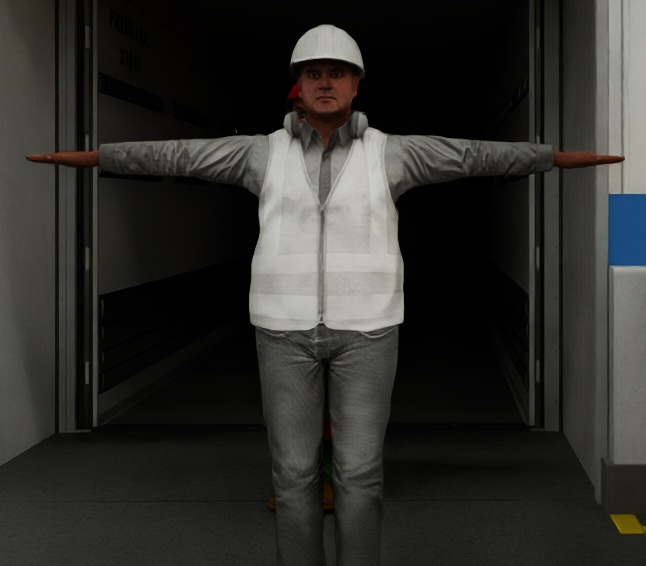
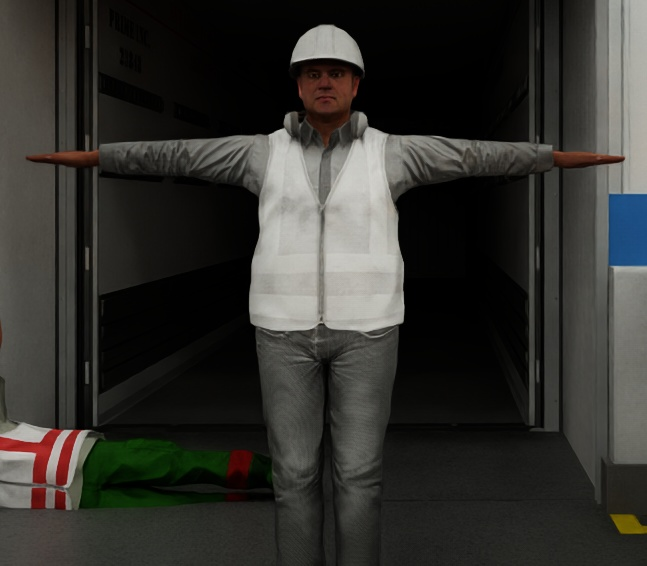
Confirm fall detection working (aspect ratio 1.77 triggered alert), add debug capture folder, add NOTES.md

diff --git a/unified_tracking.py b/unified_tracking.py
@@ -18,6 +18,7 @@ ID_COUNTER_FILE = PROJECT_DIR + r"\next_id.txt"
 CAMERA_ZONES_FILE = PROJECT_DIR + r"\camera_zones.json"
 AUTHORIZED_IDS_FILE = PROJECT_DIR + r"\authorized_ids.json"
 EVENT_LOG_FILE = PROJECT_DIR + r"\event_log.json"
+DEBUG_DIR = PROJECT_DIR + r"\debug_captures"
 
 CHECKPOINT_NAME = "EntryCamera"
 CHECKPOINT_PATH = "/World/EntryCamera"
@@ -54,6 +55,7 @@ import cv2
 import subprocess
 import json
 import os
+import shutil
 import time
 from datetime import datetime, timezone
 from isaacsim.sensors.camera import Camera
@@ -205,6 +207,7 @@ def check_for_fall(detection):
     if height == 0:
         return False
     aspect_ratio = width / height
+    print(f"    (aspect ratio: {aspect_ratio:.2f}, fall threshold is 1.3)")
     return aspect_ratio > 1.3
 
 
@@ -262,6 +265,9 @@ def scan_zone_camera(camera_path, zone_name):
     crop_path = os.path.join(os.environ["TEMP"], f"crop_{tag}.jpg")
     cv2.imwrite(crop_path, crop)
 
+    debug_name = f"{datetime.now().strftime('%H%M%S')}_{tag}_crop.jpg"
+    cv2.imwrite(os.path.join(DEBUG_DIR, debug_name), crop)
+
     reid_result = run_subprocess("deepface_reid.py", [crop_path, KNOWN_FACES_DIR])
     if reid_result.get("status") == "match":
         matched_filename = os.path.basename(reid_result["matched_path"])
@@ -300,6 +306,10 @@ def scan_checkpoint(authorized_ids):
 
     crop_path = os.path.join(os.environ["TEMP"], "checkpoint_crop.jpg")
     cv2.imwrite(crop_path, crop)
+
+    debug_name = f"{datetime.now().strftime('%H%M%S')}_checkpoint_crop.jpg"
+    cv2.imwrite(os.path.join(DEBUG_DIR, debug_name), crop)
+
     reid_result = run_subprocess("deepface_reid.py", [crop_path, KNOWN_FACES_DIR])
 
     person_id = None
@@ -368,6 +378,12 @@ def run_sweep(camera_zones, authorized_ids):
 
 def main():
     os.makedirs(KNOWN_FACES_DIR, exist_ok=True)
+
+    # Clear out the debug folder from the previous run so it doesn't pile up,
+    # then recreate it fresh for this run's captures.
+    if os.path.exists(DEBUG_DIR):
+        shutil.rmtree(DEBUG_DIR)
+    os.makedirs(DEBUG_DIR, exist_ok=True)
 
     with open(CAMERA_ZONES_FILE, "r") as f:
         camera_zones = json.load(f)

diff --git a/NOTES.md b/NOTES.md
@@ -1,0 +1,108 @@
+# Development Notes / Debugging Log
+
+Running log of what was built and, more importantly, what broke and how it got fixed.
+Kept for writing the final README and project writeup later.
+
+## Architecture
+
+- **4 fixed zone cameras** (corners of warehouse) - occupancy/body detection only via YOLOv8.
+  Best-effort face re-ID if a clean face happens to be visible, but not required.
+- **1 checkpoint camera** (EntryCamera, close range, head height) - source of truth for
+  identity. Runs YOLO -> crop -> DeepFace re-ID -> authorization check.
+- **3 patrolling characters**, moved via direct USD transform overrides (no physics,
+  no walk animation yet) along a manually-plotted waypoint loop.
+- Person detection (YOLOv8) and face re-ID (DeepFace) both run in isolated subprocesses
+  via `python.bat`, not in-process inside Isaac Sim - see "h5py/DLL conflict" below for why.
+
+## Key bugs and fixes
+
+**Isaac Sim 6.x namespace migration** - `isaacsim.*` not `omni.isaac.*`. Older
+tutorials/docs reference the old namespace and will silently fail to import.
+
+**Camera returns no frame / `get_rgba()` is None**
+- Root cause 1: timeline was never started. `simulation_app.update()` alone advances
+  the app loop but does NOT drive the renderer if the timeline is paused - need
+  `omni.timeline.get_timeline_interface().play()` before capturing.
+- Root cause 2: camera resolution defaulted to 64x64 in one case, below DLSS's minimum
+  input resolution, so no frame could be produced at all. Fixed by explicitly setting
+  `resolution=(640,480)` (or higher) on the Camera object.
+- Fixed with a retry loop (check `get_rgba()` after every tick, up to ~300 attempts)
+  rather than a fixed sleep/tick count, since different scenes need different warmup.
+
+**NumPy 2.x / PyTorch ABI mismatch**
+`pip install ultralytics` pulled a torch build compiled against NumPy 1.x, but Isaac
+Sim's environment has NumPy 2.5.1. Fixed by reinstalling torch (and torchvision -
+they must match versions) via the CPU wheel index.
+
+**h5py DLL conflict (DeepFace/.h5 weights)**
+Isaac Sim's embedded Python has a persistent `ImportError: DLL load failed while
+importing defs` when loading .h5 weight files in-process - happens even with correct,
+verified weight files, and does NOT reproduce in a plain terminal python.bat call.
+This means it's an in-process native library conflict specific to Isaac Sim's runtime,
+not a package/version issue. Pinning h5py/numpy versions did not fix it even after a
+full restart.
+
+Architectural fix (not a patch): capture the frame inside Isaac Sim, save to disk,
+then shell out via `subprocess.run(...)` calling `python.bat script.py` as a
+completely separate process. This sidesteps the conflict entirely rather than
+continuing to chase the root cause - and arguably is the more correct design anyway,
+since a real deployment would likely separate CV inference from the simulation
+process regardless.
+
+**Subprocess quirks on Windows**
+- Inline code via `python -c "..."` gets mangled through `shell=True` - must write
+  the script to an actual .py file on disk first.
+- Default `text=True` subprocess output decodes with the Windows console's default
+  codepage (cp1252), which crashes on any non-ASCII byte in stderr (e.g. emoji in a
+  library's warning output). Fixed with `encoding="utf-8", errors="replace"`.
+- Writing to `C:\` root fails with permission denied - use `os.environ["TEMP"]`.
+
+**DeepFace `enforce_detection=False` silently returning garbage**
+Using `enforce_detection=False` means DeepFace never raises an error when it can't
+find a face - it just proceeds anyway, which caused spurious "matches" based on
+whatever it fell back to (at one point, apparently comparing warehouse background
+similarity rather than faces, since 4 different people all matched to one ID).
+Fixed by using `enforce_detection=True` and explicitly catching the ValueError,
+with a three-way `status` field (`match` / `new` / `detection_failed`) instead of
+a boolean, so a failed detection is never conflated with "confirmed new person."
+
+**Wide/elevated camera angles can't do reliable face-ID**
+Zone cameras mounted high and covering a whole room physically can't get a clean,
+close, front-on face shot - this isn't a bug, it's a real physical limitation
+(this is why real security systems use dedicated checkpoint cameras at chokepoints,
+not wide overview cameras, for identity confirmation). Solved by splitting roles:
+zone cameras = occupancy/body detection only, one dedicated close-range checkpoint
+camera = identity confirmation.
+
+**Stale DeepFace `.find()` cache**
+`DeepFace.find()` builds and reuses a pickle cache of known face embeddings in the
+db folder. Since new reference images are being added to that same folder between
+calls, the cache went stale and caused real matches to be silently missed (same
+person re-scanned 5 times in a row, each time treated as brand new). Fixed by
+deleting any `.pkl` cache files in the known_faces folder at the start of every
+`deepface_reid.py` run, forcing a fresh index each time.
+
+**OpenCV face detector struggling with sunglasses/hats**
+Switched `detector_backend` from `"opencv"` (fast, weak, classic Haar-cascade) to
+`"retinaface"` (modern deep-learning based) after confirming character accessories
+were causing missed detections.
+
+**`get_next_id()` off-by-one**
+Original version wrote the new counter value to disk but returned the same value
+that was passed in, causing duplicate IDs to be assigned. Fixed to always compute
+and write `next_id + 1` while returning the pre-increment value.
+
+**Fall detection heuristic**
+No separate pose-estimation model - reused the existing YOLO bounding box.
+A standing person's box is taller than wide; a fallen person's box becomes wider
+than tall. Threshold: aspect ratio (width/height) > 1.3 flags a fall. Confirmed
+working by manually rotating a character prim 90 degrees - aspect ratio correctly
+jumped from ~0.3-1.1 (standing) to 1.77 (fallen) and triggered the alert.
+
+**Isaac Sim UI freezes ("Not Responding") during scans**
+`subprocess.run()` is a blocking call - while waiting for YOLO/DeepFace subprocesses,
+the main thread can't service Windows UI messages, so the window shows "Not
+Responding." This is expected, not a crash - the process is just busy. Confirmed via
+Task Manager CPU/disk activity during a "frozen" period. Real cost: can't visually
+inspect the viewport while a sweep is running, since it blocks the whole app,
+including camera switching.
